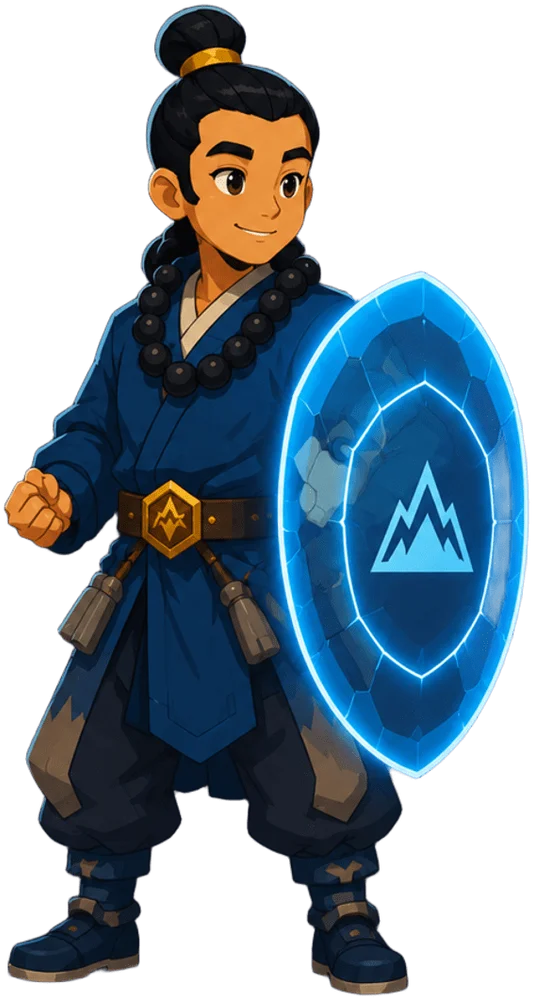
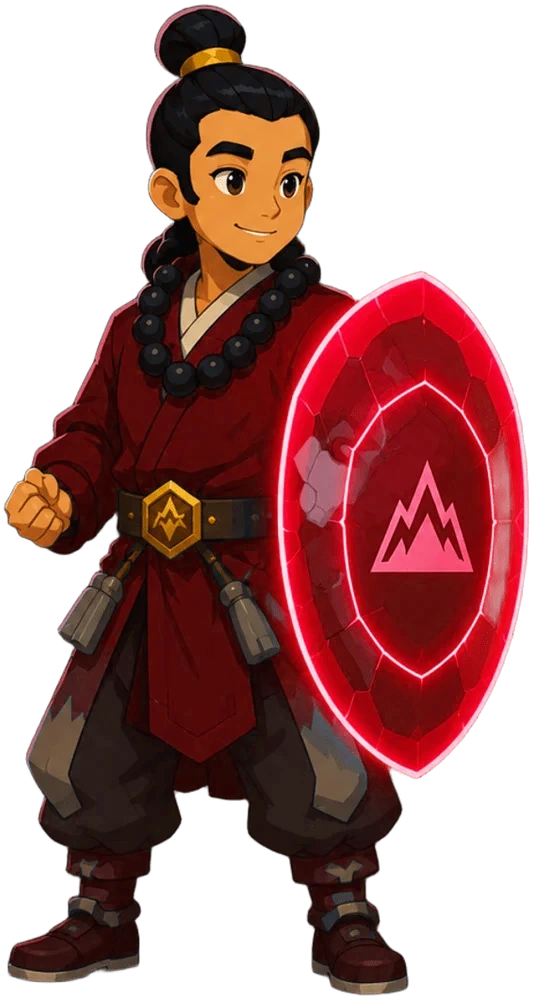
fix(frontend): recolore a arte dos guardioes para bater com a paleta oficial (nao o contrario)
Inversao do commit anterior: a paleta oficial de cada perfil
(microservice/src/constants/brainHex.ts) e a fonte da verdade, entao quem
tinha que mudar era a arte, nao o badge/UI. PROFILES volta a usar os hex
oficiais (com luminosidade elevada p/ contraste, mesmo criterio de sempre).

Recolori 4 dos 7 guardioes (seeker, survivor, conqueror, socializer) via
script com sharp: hue-shift so nos pixels do figurino/manto (identificados
por faixa de matiz+saturacao numa regiao do torso, com fallback suave nas
bordas da faixa), preservando pele/cabelo/dourado/gemas intactos. Mesma
correcao aplicada nos assets do mobile (mobile/src/assets/guardioes/*.png).

daredevil ficou de fora: na arte dela o cabelo e a capa usam a mesma faixa
de matiz+saturacao (ambos "fogo laranja"), entao isolar so a capa por cor
tambem pintou pele e o efeito de fogo de verde numa tentativa com corte
por posicao. Sem mascara manual do figurino essa recolorizacao nao e segura
de automatizar — o badge dela (verde, oficial) continua divergindo da arte
(laranja) ate a arte ser re-gerada.

mastermind e achiever nao precisaram de ajuste: a arte ja estava a ~10 e
~0 graus de matiz do hex oficial, diferenca imperceptivel.

Claude-Session: https://claude.ai/code/session_01CSSvdebAY3baNHjbVgKjqE

diff --git a/frontend/src/features/signup/brainhex.ts b/frontend/src/features/signup/brainhex.ts
@@ -208,83 +208,86 @@ export function isAllAnswered(answers: BrainHexAnswers) {
 }
 
 
-// Cores amostradas diretamente da arte de cada guardiao
-// (frontend/src/assets/guardioes/*.webp — poster "Os Guardioes da Trilha"
-// fornecido pela usuaria), nao mais da cor-assinatura oficial abstrata de
-// microservice/src/constants/brainHex.ts. As duas divergem bastante: a arte
-// comissionada usa paleta propria por personagem (ex.: Conqueror de roxo,
-// Survivor de azul) que nao bate com o hex "oficial" do sistema de perfis —
-// e como a arte e o que o usuario realmente ve na secao "Guardioes da
-// Trilha" e no resultado do quiz, a cor da UI segue a arte, nao o hex
-// abstrato. Extraida a cor dominante da roupa/manto (script com sharp,
-// histograma de matiz por contagem de pixel, ignorando pele/cabelo/fundo
-// transparente) e depois só a luminosidade HSL foi elevada até ~4.5:1 de
-// contraste contra o fundo escuro do site — matiz e saturação da cor
-// original ficam intactos (mesmo principio de _ensure_min_contrast em api/,
-// documentado no CLAUDE.md: nunca misturar com branco). Ainda assim é uma
-// variante própria desta superfície — não é o mesmo valor nem o mesmo
-// algoritmo do accent computado em api/app/api/v1/personalizacao.py ou do
-// "accent" estático em src/lib/personalizacao-theme-guide.ts (esses dois
-// continuam na cor-assinatura oficial do brainHex.ts).
+// Cores derivadas da cor-assinatura OFICIAL de cada perfil BrainHex (fonte:
+// microservice/src/constants/brainHex.ts) — a paleta e a fonte da verdade,
+// nao a arte. Quando a arte dos guardioes (frontend/src/assets/guardioes/*.webp)
+// divergia da cor oficial, a correcao foi recolorir a arte para bater com a
+// paleta (script com sharp: hue-shift so nos pixels do figurino/manto,
+// identificados por faixa de matiz+saturacao, preservando pele/cabelo/dourado
+// intactos) — nao o contrario. Isso foi feito para seeker, survivor,
+// conqueror e socializer. daredevil ficou de fora: na arte dela o cabelo e a
+// capa usam exatamente o mesmo laranja (mesma faixa de matiz/saturacao), e
+// tentar isolar so a capa por hue tambem pintou a pele e o efeito de fogo de
+// verde — sem uma mascara manual do figurino essa recolorizacao nao e segura
+// de automatizar, entao o badge dela ainda diverge da arte (oficial=verde,
+// arte=laranja) ate a arte ser re-gerada.
+// Luminosidade HSL elevada apenas o suficiente para ~4.5:1 de contraste
+// contra o fundo escuro do site — matiz e saturação da cor oficial ficam
+// intactos (mesmo principio de _ensure_min_contrast em
+// mobile/src/utils/profileShellTheme.ts, documentado no CLAUDE.md: nunca
+// misturar com branco). Ainda assim é uma variante própria desta
+// superfície — não é o mesmo valor nem o mesmo algoritmo do accent
+// computado em api/app/api/v1/personalizacao.py ou do "accent" estático em
+// src/lib/personalizacao-theme-guide.ts.
 export const PROFILES = {
   seeker: {
     key: "seeker",
     title: "Seeker (Explorador)",
     icon: Map,
-    color: "text-[#3c9428] bg-[#3c9428]/10 border-[#3c9428]/20",
-    textColor: "text-[#3c9428]",
-    bgColor: "bg-[#3c9428]",
-    cardStyle: "bg-[#3c9428]/10 border-[#3c9428]/20",
+    color: "text-[#a78c07] bg-[#a78c07]/10 border-[#a78c07]/20",
+    textColor: "text-[#a78c07]",
+    bgColor: "bg-[#a78c07]",
+    cardStyle: "bg-[#a78c07]/10 border-[#a78c07]/20",
     text: "Motivado pela curiosidade. Gosta de explorar possibilidades, achar conteúdos extras e entender conexões além do básico.",
   },
   survivor: {
     key: "survivor",
     title: "Survivor (Desafiador)",
     icon: Shield,
-    color: "text-[#1286de] bg-[#1286de]/10 border-[#1286de]/20",
-    textColor: "text-[#1286de]",
-    bgColor: "bg-[#1286de]",
-    cardStyle: "bg-[#1286de]/10 border-[#1286de]/20",
+    color: "text-[#fb0202] bg-[#fb0202]/10 border-[#fb0202]/20",
+    textColor: "text-[#fb0202]",
+    bgColor: "bg-[#fb0202]",
+    cardStyle: "bg-[#fb0202]/10 border-[#fb0202]/20",
     text: "Prospera sob pressão. Curte prazos, intensidade e a sensação de superar limites difíceis.",
   },
   daredevil: {
     key: "daredevil",
     title: "Daredevil (Aventureiro)",
     icon: Sword,
-    color: "text-[#ec3c04] bg-[#ec3c04]/10 border-[#ec3c04]/20",
-    textColor: "text-[#ec3c04]",
-    bgColor: "bg-[#ec3c04]",
-    cardStyle: "bg-[#ec3c04]/10 border-[#ec3c04]/20",
+    color: "text-[#249024] bg-[#249024]/10 border-[#249024]/20",
+    textColor: "text-[#249024]",
+    bgColor: "bg-[#249024]",
+    cardStyle: "bg-[#249024]/10 border-[#249024]/20",
     text: "Gosta de ação e risco. Prefere aprender por tentativa e erro, com exploração rápida e sem medo de falhar.",
   },
   mastermind: {
     key: "mastermind",
     title: "Mastermind (Estrategista)",
     icon: Compass,
-    color: "text-[#367af4] bg-[#367af4]/10 border-[#367af4]/20",
-    textColor: "text-[#367af4]",
-    bgColor: "bg-[#367af4]",
-    cardStyle: "bg-[#367af4]/10 border-[#367af4]/20",
+    color: "text-[#788490] bg-[#788490]/10 border-[#788490]/20",
+    textColor: "text-[#788490]",
+    bgColor: "bg-[#788490]",
+    cardStyle: "bg-[#788490]/10 border-[#788490]/20",
     text: "Curte planejar e entender o porquê. Aprende melhor com estrutura, lógica e visão geral do sistema.",
   },
   conqueror: {
     key: "conqueror",
     title: "Conqueror (Competidor)",
     icon: Crown,
-    color: "text-[#ab60df] bg-[#ab60df]/10 border-[#ab60df]/20",
-    textColor: "text-[#ab60df]",
-    bgColor: "bg-[#ab60df]",
-    cardStyle: "bg-[#ab60df]/10 border-[#ab60df]/20",
+    color: "text-[#018e9a] bg-[#018e9a]/10 border-[#018e9a]/20",
+    textColor: "text-[#018e9a]",
+    bgColor: "bg-[#018e9a]",
+    cardStyle: "bg-[#018e9a]/10 border-[#018e9a]/20",
     text: "Motivado por performance. Gosta de rankings, metas claras e superar desafios comparativos.",
   },
   socializer: {
     key: "socializer",
     title: "Socializer (Colaborador)",
     icon: Drama,
-    color: "text-[#d9505c] bg-[#d9505c]/10 border-[#d9505c]/20",
-    textColor: "text-[#d9505c]",
-    bgColor: "bg-[#d9505c]",
-    cardStyle: "bg-[#d9505c]/10 border-[#d9505c]/20",
+    color: "text-[#aa60ed] bg-[#aa60ed]/10 border-[#aa60ed]/20",
+    textColor: "text-[#aa60ed]",
+    bgColor: "bg-[#aa60ed]",
+    cardStyle: "bg-[#aa60ed]/10 border-[#aa60ed]/20",
     text: "Valoriza interação. Aprende melhor em grupo, com troca de ideias e atividades cooperativas.",
   },
   achiever: {
